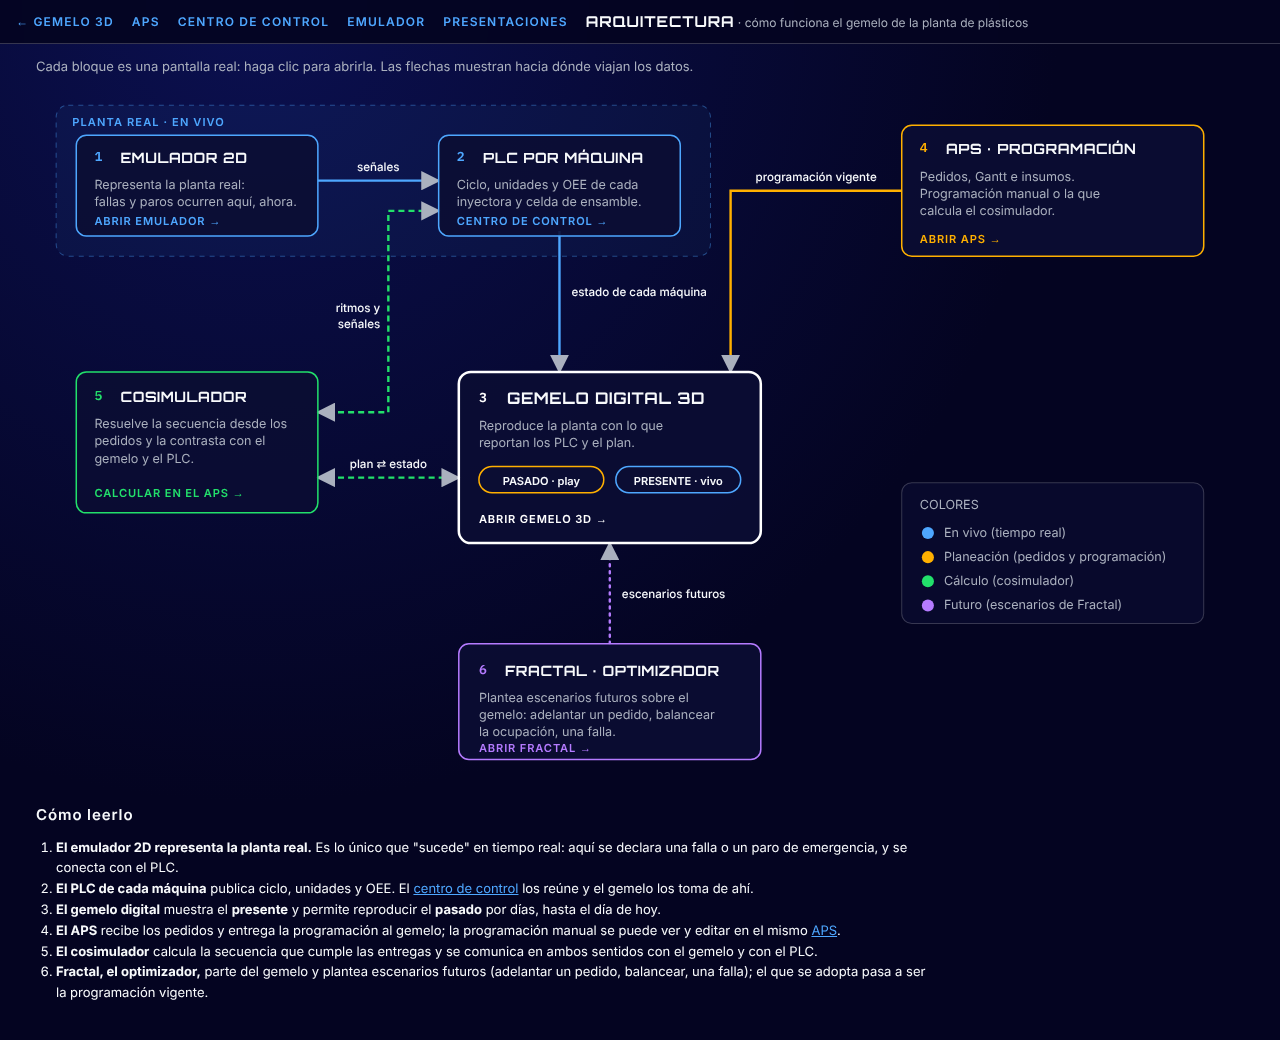
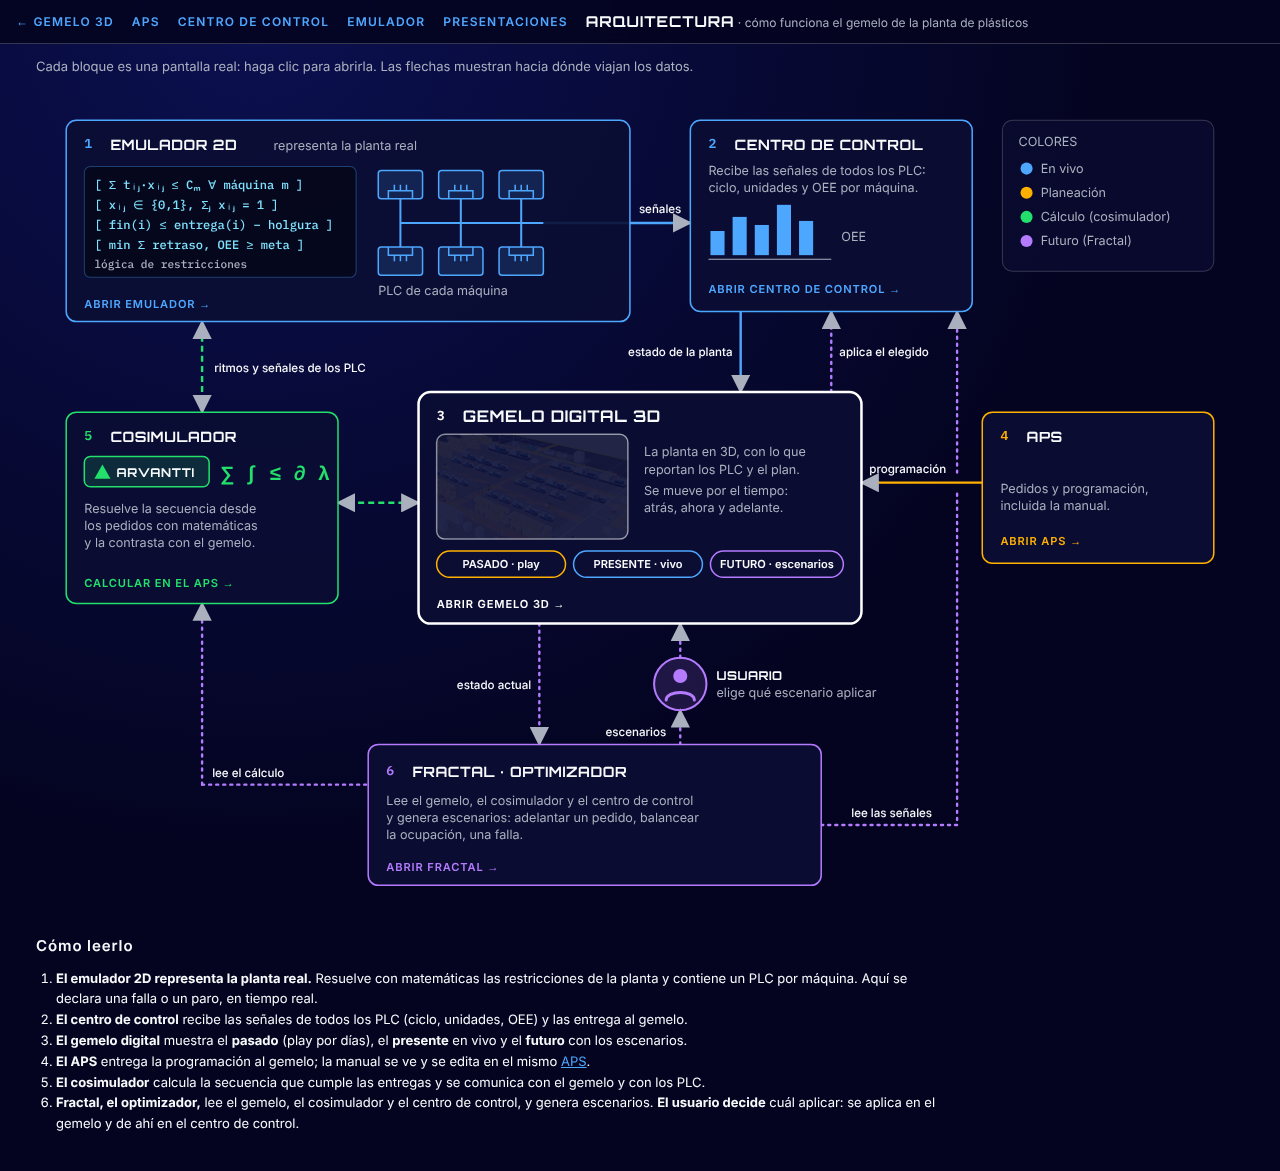
Arquitectura de plásticos: PLC en el emulador, centro de control, futuro, Fractal con usuario
Claude-Session: https://claude.ai/code/session_01V6M9Ltksmmm9rcyhRpi2VM

diff --git a/apps/gallery/arquitectura.html b/apps/gallery/arquitectura.html
@@ -19,121 +19,160 @@
     <main class="ar-main">
       <p class="ar-lead">Cada bloque es una pantalla real: haga clic para abrirla. Las flechas muestran hacia dónde viajan los datos.</p>
 
-      <svg class="ar-svg" viewBox="0 0 1200 700" role="img" aria-labelledby="ar-t ar-d">
+      <svg class="ar-svg" viewBox="0 0 1200 830" role="img" aria-labelledby="ar-t ar-d">
         <title id="ar-t">Arquitectura del gemelo digital de la planta de plásticos</title>
-        <desc id="ar-d">El emulador 2D representa la planta real y alimenta al PLC; el PLC alimenta al gemelo digital, que muestra el pasado y el presente. El APS entrega la programación, incluida la manual, al gemelo. El cosimulador intercambia datos con el gemelo y con el PLC. Fractal, el optimizador, plantea escenarios futuros sobre el gemelo.</desc>
+        <desc id="ar-d">El emulador 2D representa la planta real y contiene muchos PLC; todas sus señales llegan al centro de control. El centro de control alimenta al gemelo digital, que muestra pasado, presente y futuro. El APS entrega la programación al gemelo. El cosimulador intercambia datos con el gemelo y con los PLC. Fractal, el optimizador, lee el gemelo, el cosimulador y el centro de control, genera escenarios y un usuario decide cuál aplicar en el gemelo y en el centro de control.</desc>
         <defs>
           <marker id="ar-arrow" viewBox="0 0 10 10" refX="9" refY="5" markerWidth="8" markerHeight="8" orient="auto-start-reverse"><path d="M0 0L10 5L0 10z" class="ar-head" /></marker>
+          <clipPath id="ar-clip"><rect x="398" y="352" width="190" height="104" rx="8" /></clipPath>
         </defs>
 
-        <!-- Planta real (emulada) -->
-        <rect class="ar-zone" x="20" y="25" width="650" height="150" rx="12" />
-        <text class="ar-zone-t" x="36" y="46">PLANTA REAL · EN VIVO</text>
-
         <!-- Flechas -->
-        <path class="ar-line live" d="M280 100H400" marker-end="url(#ar-arrow)" />
-        <text class="ar-lbl" x="340" y="90" text-anchor="middle">señales</text>
-        <path class="ar-line live" d="M520 150V290" marker-end="url(#ar-arrow)" />
-        <text class="ar-lbl" x="532" y="215">estado de cada máquina</text>
+        <path class="ar-line live" d="M504 142H650" marker-end="url(#ar-arrow)" />
+        <text class="ar-lbl" x="620" y="132" text-anchor="middle">señales</text>
+        <path class="ar-line live" d="M700 230V310" marker-end="url(#ar-arrow)" />
+        <text class="ar-lbl" x="692" y="274" text-anchor="end">estado de la planta</text>
+        <path class="ar-line fut" d="M790 310V230" marker-end="url(#ar-arrow)" />
+        <text class="ar-lbl" x="798" y="274">aplica el elegido</text>
 
-        <path class="ar-line plan" d="M860 110H690V290" marker-end="url(#ar-arrow)" />
-        <text class="ar-lbl" x="775" y="100" text-anchor="middle">programación vigente</text>
+        <path class="ar-line plan" d="M940 400H820" marker-end="url(#ar-arrow)" />
+        <text class="ar-lbl" x="866" y="390" text-anchor="middle">programación</text>
 
-        <path class="ar-line calc" d="M280 395H420" marker-start="url(#ar-arrow)" marker-end="url(#ar-arrow)" />
-        <text class="ar-lbl" x="350" y="385" text-anchor="middle">plan ⇄ estado</text>
-        <path class="ar-line calc" d="M280 330H350V130H400" marker-start="url(#ar-arrow)" marker-end="url(#ar-arrow)" />
-        <text class="ar-lbl" x="342" y="230" text-anchor="end">ritmos y</text>
-        <text class="ar-lbl" x="342" y="246" text-anchor="end">señales</text>
+        <path class="ar-line calc" d="M300 420H380" marker-start="url(#ar-arrow)" marker-end="url(#ar-arrow)" />
+        <path class="ar-line calc" d="M165 330V240" marker-start="url(#ar-arrow)" marker-end="url(#ar-arrow)" />
+        <text class="ar-lbl" x="177" y="290">ritmos y señales de los PLC</text>
 
-        <path class="ar-line fut" d="M570 560V460" marker-end="url(#ar-arrow)" />
-        <text class="ar-lbl" x="582" y="515">escenarios futuros</text>
+        <path class="ar-line fut" d="M500 540V660" marker-end="url(#ar-arrow)" />
+        <text class="ar-lbl" x="492" y="605" text-anchor="end">estado actual</text>
+        <path class="ar-line fut" d="M640 660V626" marker-end="url(#ar-arrow)" />
+        <path class="ar-line fut" d="M640 574V540" marker-end="url(#ar-arrow)" />
+        <text class="ar-lbl" x="626" y="652" text-anchor="end">escenarios</text>
 
-        <!-- Emulador -->
+        <path class="ar-line fut" d="M165 700H330" />
+        <path class="ar-line fut" d="M165 700V520" marker-end="url(#ar-arrow)" />
+        <path class="ar-line fut" d="M780 740H915V410" />
+        <path class="ar-line fut" d="M915 390V230" marker-end="url(#ar-arrow)" />
+        <text class="ar-lbl" x="175" y="692">lee el cálculo</text>
+        <text class="ar-lbl" x="850" y="732" text-anchor="middle">lee las señales</text>
+
+        <!-- Emulador con PLC -->
         <a href="/emulador.html"><g class="ar-box live">
-          <rect x="40" y="55" width="240" height="100" rx="10" />
-          <text class="ar-n" x="58" y="80">1</text>
-          <text class="ar-h" x="84" y="82">EMULADOR 2D</text>
-          <text class="ar-s" x="58" y="108">Representa la planta real:</text>
-          <text class="ar-s" x="58" y="125">fallas y paros ocurren aquí, ahora.</text>
-          <text class="ar-go" x="58" y="144">ABRIR EMULADOR →</text>
+          <rect x="30" y="40" width="560" height="200" rx="10" />
+          <text class="ar-n" x="48" y="68">1</text>
+          <text class="ar-h" x="74" y="70">EMULADOR 2D</text>
+          <text class="ar-s" x="236" y="70">representa la planta real</text>
+          <rect class="ar-code-bg" x="48" y="86" width="270" height="110" rx="6" />
+          <text class="ar-code" x="58" y="108">[ Σ tᵢⱼ·xᵢⱼ ≤ Cₘ  ∀ máquina m ]</text>
+          <text class="ar-code" x="58" y="128">[ xᵢⱼ ∈ {0,1}, Σⱼ xᵢⱼ = 1 ]</text>
+          <text class="ar-code" x="58" y="148">[ fin(i) ≤ entrega(i) − holgura ]</text>
+          <text class="ar-code" x="58" y="168">[ min Σ retraso, OEE ≥ meta ]</text>
+          <text class="ar-code dim" x="58" y="187">lógica de restricciones</text>
+          <g class="ar-plc">
+            <path class="ar-bus" d="M362 118V142M422 118V142M482 118V142M362 166V142M422 166V142M482 166V142M362 142H504" />
+            <g transform="translate(340 90)"><rect width="44" height="28" rx="3" /><path d="M10 28v-8h24v8M16 20v-6M22 20v-6M28 20v-6" /></g>
+            <g transform="translate(400 90)"><rect width="44" height="28" rx="3" /><path d="M10 28v-8h24v8M16 20v-6M22 20v-6M28 20v-6" /></g>
+            <g transform="translate(460 90)"><rect width="44" height="28" rx="3" /><path d="M10 28v-8h24v8M16 20v-6M22 20v-6M28 20v-6" /></g>
+            <g transform="translate(340 166)"><rect width="44" height="28" rx="3" /><path d="M10 0v8h24v-8M16 8v6M22 8v6M28 8v6" /></g>
+            <g transform="translate(400 166)"><rect width="44" height="28" rx="3" /><path d="M10 0v8h24v-8M16 8v6M22 8v6M28 8v6" /></g>
+            <g transform="translate(460 166)"><rect width="44" height="28" rx="3" /><path d="M10 0v8h24v-8M16 8v6M22 8v6M28 8v6" /></g>
+          </g>
+          <text class="ar-s" x="340" y="214">PLC de cada máquina</text>
+          <text class="ar-go" x="48" y="226">ABRIR EMULADOR →</text>
         </g></a>
 
-        <!-- PLC -->
+        <!-- Centro de control -->
         <a href="/control.html"><g class="ar-box live">
-          <rect x="400" y="55" width="240" height="100" rx="10" />
-          <text class="ar-n" x="418" y="80">2</text>
-          <text class="ar-h" x="444" y="82">PLC POR MÁQUINA</text>
-          <text class="ar-s" x="418" y="108">Ciclo, unidades y OEE de cada</text>
-          <text class="ar-s" x="418" y="125">inyectora y celda de ensamble.</text>
-          <text class="ar-go" x="418" y="144">CENTRO DE CONTROL →</text>
-        </g></a>
-
-        <!-- APS -->
-        <a href="/aps.html"><g class="ar-box plan">
-          <rect x="860" y="45" width="300" height="130" rx="10" />
-          <text class="ar-n" x="878" y="72">4</text>
-          <text class="ar-h" x="904" y="74">APS · PROGRAMACIÓN</text>
-          <text class="ar-s" x="878" y="100">Pedidos, Gantt e insumos.</text>
-          <text class="ar-s" x="878" y="117">Programación manual o la que</text>
-          <text class="ar-s" x="878" y="134">calcula el cosimulador.</text>
-          <text class="ar-go" x="878" y="162">ABRIR APS →</text>
+          <rect x="650" y="40" width="280" height="190" rx="10" />
+          <text class="ar-n" x="668" y="68">2</text>
+          <text class="ar-h" x="694" y="70">CENTRO DE CONTROL</text>
+          <text class="ar-s" x="668" y="94">Recibe las señales de todos los PLC:</text>
+          <text class="ar-s" x="668" y="111">ciclo, unidades y OEE por máquina.</text>
+          <g class="ar-bars"><rect x="670" y="150" width="14" height="24" /><rect x="692" y="136" width="14" height="38" /><rect x="714" y="144" width="14" height="30" /><rect x="736" y="124" width="14" height="50" /><rect x="758" y="140" width="14" height="34" /><path d="M668 178H790" /></g>
+          <text class="ar-s" x="800" y="160" font-weight="600">OEE</text>
+          <text class="ar-go" x="668" y="212">ABRIR CENTRO DE CONTROL →</text>
         </g></a>
 
         <!-- Gemelo -->
         <a href="/plant.html?plant=plastic-injection-plant-v1"><g class="ar-box twin">
-          <rect x="420" y="290" width="300" height="170" rx="12" />
-          <text class="ar-n" x="440" y="320">3</text>
-          <text class="ar-h big" x="468" y="322">GEMELO DIGITAL 3D</text>
-          <text class="ar-s" x="440" y="348">Reproduce la planta con lo que</text>
-          <text class="ar-s" x="440" y="365">reportan los PLC y el plan.</text>
-          <rect class="ar-chip past" x="440" y="384" width="124" height="26" rx="13" />
-          <text class="ar-chip-t" x="502" y="402" text-anchor="middle">PASADO · play</text>
-          <rect class="ar-chip now" x="576" y="384" width="124" height="26" rx="13" />
-          <text class="ar-chip-t" x="638" y="402" text-anchor="middle">PRESENTE · vivo</text>
-          <text class="ar-go" x="440" y="440">ABRIR GEMELO 3D →</text>
+          <rect x="380" y="310" width="440" height="230" rx="12" />
+          <text class="ar-n" x="398" y="338">3</text>
+          <text class="ar-h big" x="424" y="340">GEMELO DIGITAL 3D</text>
+          <image href="/portal/plasticos.jpg" x="398" y="352" width="190" height="104" preserveAspectRatio="xMidYMid slice" clip-path="url(#ar-clip)" style="filter:brightness(1.7) saturate(1.2)" />
+          <rect class="ar-frame" x="398" y="352" width="190" height="104" rx="8" />
+          <text class="ar-s" x="604" y="374">La planta en 3D, con lo que</text>
+          <text class="ar-s" x="604" y="391">reportan los PLC y el plan.</text>
+          <text class="ar-s" x="604" y="412">Se mueve por el tiempo:</text>
+          <text class="ar-s" x="604" y="429">atrás, ahora y adelante.</text>
+          <rect class="ar-chip past" x="398" y="468" width="128" height="26" rx="13" />
+          <text class="ar-chip-t" x="462" y="485" text-anchor="middle">PASADO · play</text>
+          <rect class="ar-chip now" x="534" y="468" width="128" height="26" rx="13" />
+          <text class="ar-chip-t" x="598" y="485" text-anchor="middle">PRESENTE · vivo</text>
+          <rect class="ar-chip fut" x="670" y="468" width="132" height="26" rx="13" />
+          <text class="ar-chip-t" x="736" y="485" text-anchor="middle">FUTURO · escenarios</text>
+          <text class="ar-go" x="398" y="525">ABRIR GEMELO 3D →</text>
+        </g></a>
+
+        <!-- APS -->
+        <a href="/aps.html"><g class="ar-box plan">
+          <rect x="940" y="330" width="230" height="150" rx="10" />
+          <text class="ar-n" x="958" y="358">4</text>
+          <text class="ar-h" x="984" y="360">APS</text>
+                    <text class="ar-s" x="958" y="410">Pedidos y programación,</text>
+          <text class="ar-s" x="958" y="427">incluida la manual.</text>
+          <text class="ar-go" x="958" y="462">ABRIR APS →</text>
         </g></a>
 
         <!-- Cosimulador -->
         <a href="/aps.html?tab=gantt"><g class="ar-box calc">
-          <rect x="40" y="290" width="240" height="140" rx="10" />
-          <text class="ar-n" x="58" y="318">5</text>
-          <text class="ar-h" x="84" y="320">COSIMULADOR</text>
-          <text class="ar-s" x="58" y="346">Resuelve la secuencia desde los</text>
-          <text class="ar-s" x="58" y="363">pedidos y la contrasta con el</text>
-          <text class="ar-s" x="58" y="380">gemelo y el PLC.</text>
-          <text class="ar-go" x="58" y="414">CALCULAR EN EL APS →</text>
+          <rect x="30" y="330" width="270" height="190" rx="10" />
+          <text class="ar-n" x="48" y="358">5</text>
+          <text class="ar-h" x="74" y="360">COSIMULADOR</text>
+          <g class="ar-logo" transform="translate(48 374)"><rect width="124" height="30" rx="6" /><path d="M10 22L18 8L26 22z" /><text x="32" y="20">ARVANTTI</text></g>
+          <text class="ar-math" x="184" y="397">∑ ∫ ≤ ∂ λ</text>
+          <text class="ar-s" x="48" y="430">Resuelve la secuencia desde</text>
+          <text class="ar-s" x="48" y="447">los pedidos con matemáticas</text>
+          <text class="ar-s" x="48" y="464">y la contrasta con el gemelo.</text>
+          <text class="ar-go" x="48" y="504">CALCULAR EN EL APS →</text>
         </g></a>
 
         <!-- Fractal -->
         <a href="/aps.html?tab=fractal"><g class="ar-box fut">
-          <rect x="420" y="560" width="300" height="115" rx="10" />
-          <text class="ar-n" x="440" y="590">6</text>
-          <text class="ar-h" x="466" y="592">FRACTAL · OPTIMIZADOR</text>
-          <text class="ar-s" x="440" y="618">Plantea escenarios futuros sobre el</text>
-          <text class="ar-s" x="440" y="635">gemelo: adelantar un pedido, balancear</text>
-          <text class="ar-s" x="440" y="652">la ocupación, una falla.</text>
-          <text class="ar-go" x="440" y="668">ABRIR FRACTAL →</text>
+          <rect x="330" y="660" width="450" height="140" rx="10" />
+          <text class="ar-n" x="348" y="690">6</text>
+          <text class="ar-h" x="374" y="692">FRACTAL · OPTIMIZADOR</text>
+          <text class="ar-s" x="348" y="720">Lee el gemelo, el cosimulador y el centro de control</text>
+          <text class="ar-s" x="348" y="737">y genera escenarios: adelantar un pedido, balancear</text>
+          <text class="ar-s" x="348" y="754">la ocupación, una falla.</text>
+          <text class="ar-go" x="348" y="786">ABRIR FRACTAL →</text>
         </g></a>
+
+        <!-- Usuario -->
+        <g class="ar-user">
+          <circle cx="640" cy="600" r="26" />
+          <circle cx="640" cy="592" r="7" /><path d="M626 616c0-10 28-10 28 0" />
+        </g>
+        <text class="ar-h" x="676" y="596" style="font-size:12px">USUARIO</text>
+        <text class="ar-s" x="676" y="613">elige qué escenario aplicar</text>
 
         <!-- Leyenda -->
         <g class="ar-legend">
-          <rect x="860" y="400" width="300" height="140" rx="10" class="ar-leg-box" />
-          <text class="ar-s" x="878" y="426" font-weight="600">COLORES</text>
-          <circle cx="886" cy="450" r="6" class="ar-dot live" /><text class="ar-s" x="902" y="454">En vivo (tiempo real)</text>
-          <circle cx="886" cy="474" r="6" class="ar-dot plan" /><text class="ar-s" x="902" y="478">Planeación (pedidos y programación)</text>
-          <circle cx="886" cy="498" r="6" class="ar-dot calc" /><text class="ar-s" x="902" y="502">Cálculo (cosimulador)</text>
-          <circle cx="886" cy="522" r="6" class="ar-dot fut" /><text class="ar-s" x="902" y="526">Futuro (escenarios de Fractal)</text>
+          <rect x="960" y="40" width="210" height="150" rx="10" class="ar-leg-box" />
+          <text class="ar-s" x="976" y="66" font-weight="600">COLORES</text>
+          <circle cx="984" cy="88" r="6" class="ar-dot live" /><text class="ar-s" x="998" y="92">En vivo</text>
+          <circle cx="984" cy="112" r="6" class="ar-dot plan" /><text class="ar-s" x="998" y="116">Planeación</text>
+          <circle cx="984" cy="136" r="6" class="ar-dot calc" /><text class="ar-s" x="998" y="140">Cálculo (cosimulador)</text>
+          <circle cx="984" cy="160" r="6" class="ar-dot fut" /><text class="ar-s" x="998" y="164">Futuro (Fractal)</text>
         </g>
       </svg>
 
       <h2 class="ar-h2">Cómo leerlo</h2>
       <ol class="ar-steps">
-        <li><b>El emulador 2D representa la planta real.</b> Es lo único que "sucede" en tiempo real: aquí se declara una falla o un paro de emergencia, y se conecta con el PLC.</li>
-        <li><b>El PLC de cada máquina</b> publica ciclo, unidades y OEE. El <a href="/control.html">centro de control</a> los reúne y el gemelo los toma de ahí.</li>
-        <li><b>El gemelo digital</b> muestra el <b>presente</b> y permite reproducir el <b>pasado</b> por días, hasta el día de hoy.</li>
-        <li><b>El APS</b> recibe los pedidos y entrega la programación al gemelo; la programación manual se puede ver y editar en el mismo <a href="/aps.html">APS</a>.</li>
-        <li><b>El cosimulador</b> calcula la secuencia que cumple las entregas y se comunica en ambos sentidos con el gemelo y con el PLC.</li>
-        <li><b>Fractal, el optimizador,</b> parte del gemelo y plantea escenarios futuros (adelantar un pedido, balancear, una falla); el que se adopta pasa a ser la programación vigente.</li>
+        <li><b>El emulador 2D representa la planta real.</b> Resuelve con matemáticas las restricciones de la planta y contiene un PLC por máquina. Aquí se declara una falla o un paro, en tiempo real.</li>
+        <li><b>El centro de control</b> recibe las señales de todos los PLC (ciclo, unidades, OEE) y las entrega al gemelo.</li>
+        <li><b>El gemelo digital</b> muestra el <b>pasado</b> (play por días), el <b>presente</b> en vivo y el <b>futuro</b> con los escenarios.</li>
+        <li><b>El APS</b> entrega la programación al gemelo; la manual se ve y se edita en el mismo <a href="/aps.html">APS</a>.</li>
+        <li><b>El cosimulador</b> calcula la secuencia que cumple las entregas y se comunica con el gemelo y con los PLC.</li>
+        <li><b>Fractal, el optimizador,</b> lee el gemelo, el cosimulador y el centro de control, y genera escenarios. <b>El usuario decide</b> cuál aplicar: se aplica en el gemelo y de ahí en el centro de control.</li>
       </ol>
     </main>
     <script type="module" src="/src/arquitectura.ts"></script>

diff --git a/apps/gallery/src/aps.css b/apps/gallery/src/aps.css
@@ -304,3 +304,21 @@ button.danger:hover { background: rgba(255, 59, 59, 0.4); border-color: #fff; }
 .ar-steps { line-height: 1.6; padding-left: 20px; max-width: 900px; }
 .ar-steps a { color: var(--cyan); }
 @media (max-width: 700px) { .ar-svg { min-width: 760px; } .ar-main { overflow-x: auto; } }
+
+.ar-code-bg { fill: rgba(0, 0, 0, 0.45) !important; stroke: rgba(78, 167, 255, 0.35) !important; stroke-width: 1 !important; }
+.ar-code { font: 500 12px "IBM Plex Mono", monospace; fill: #7fe3ff; }
+.ar-code.dim { fill: var(--dim); font-size: 11px; }
+.ar-math { font: 600 20px "IBM Plex Mono", monospace; fill: #22e06b; }
+.ar-plc rect { fill: rgba(78, 167, 255, 0.15) !important; stroke: #4ea7ff !important; stroke-width: 1.5 !important; }
+.ar-plc path { fill: none; stroke: #4ea7ff; stroke-width: 1.5; }
+.ar-plc .ar-bus { stroke: #4ea7ff; stroke-width: 2; }
+.ar-bars rect { fill: #4ea7ff !important; stroke: none !important; }
+.ar-bars path { stroke: var(--dim); fill: none; }
+.ar-logo rect { fill: rgba(34, 224, 107, 0.15) !important; stroke: #22e06b !important; }
+.ar-logo path { fill: #22e06b; }
+.ar-logo text { font: 700 12px Orbitron, sans-serif; fill: var(--text); letter-spacing: 0.06em; }
+.ar-frame { fill: none; stroke: rgba(255,255,255,0.5); stroke-width: 1; }
+.ar-chip.fut { stroke: #b57bff; }
+.ar-user circle:first-child { fill: rgba(181, 123, 255, 0.15); stroke: #b57bff; stroke-width: 2; }
+.ar-user circle:nth-child(2) { fill: #b57bff; }
+.ar-user path { fill: none; stroke: #b57bff; stroke-width: 3; stroke-linecap: round; }
